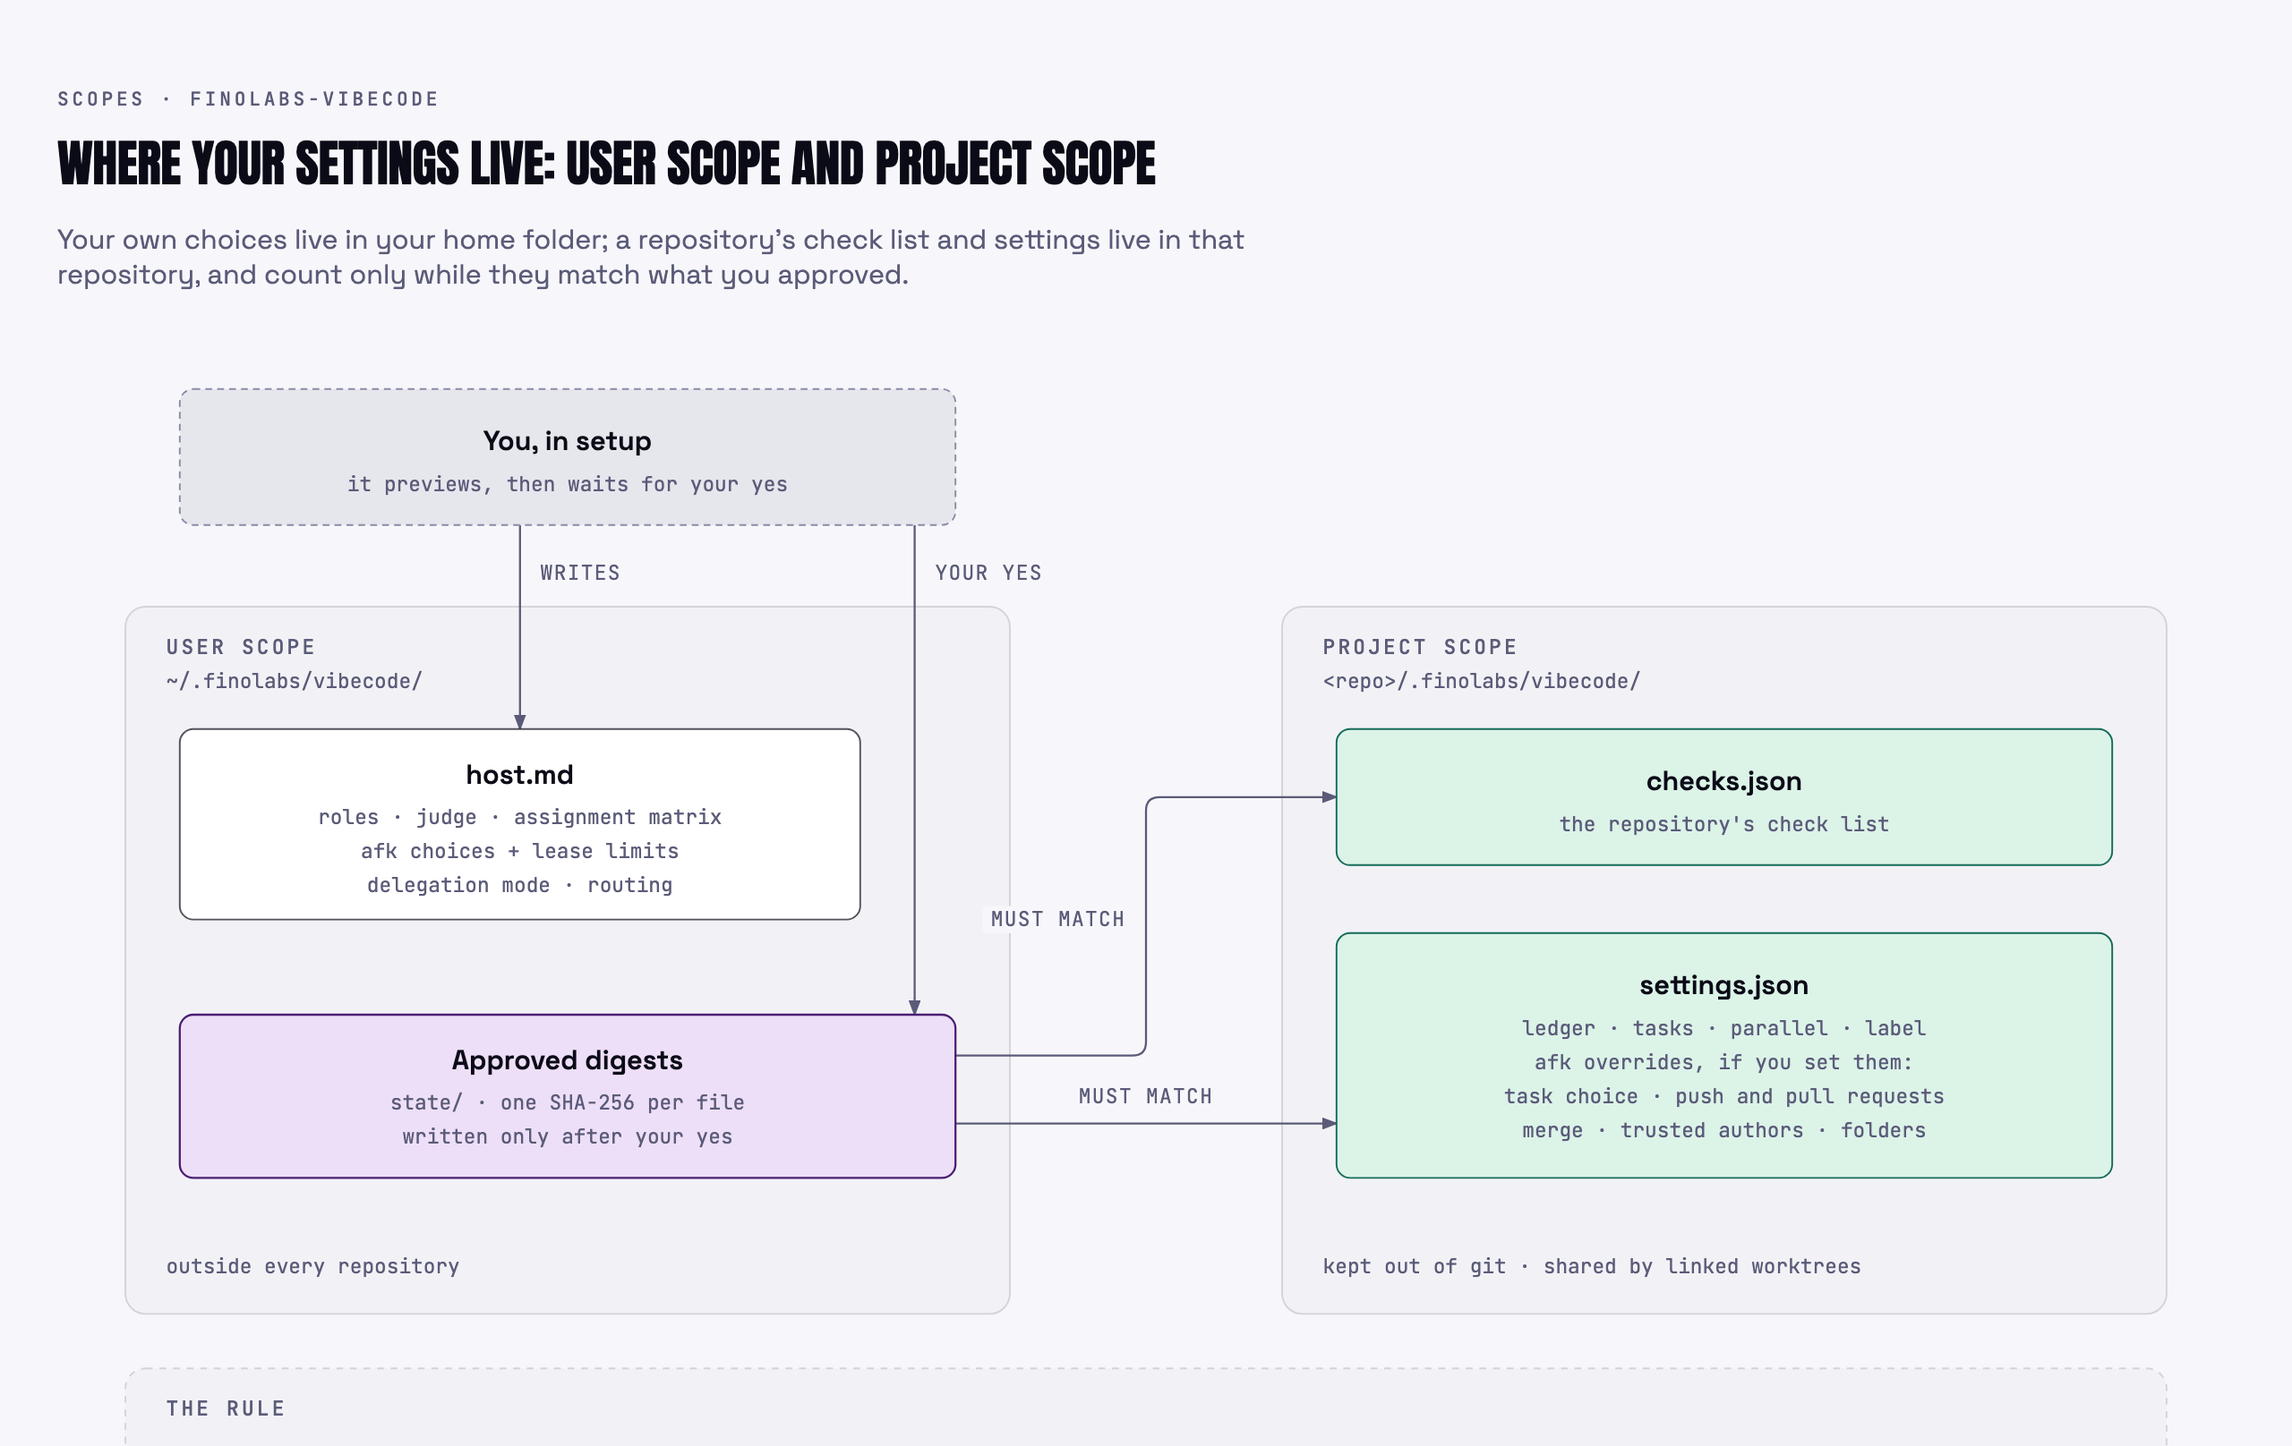
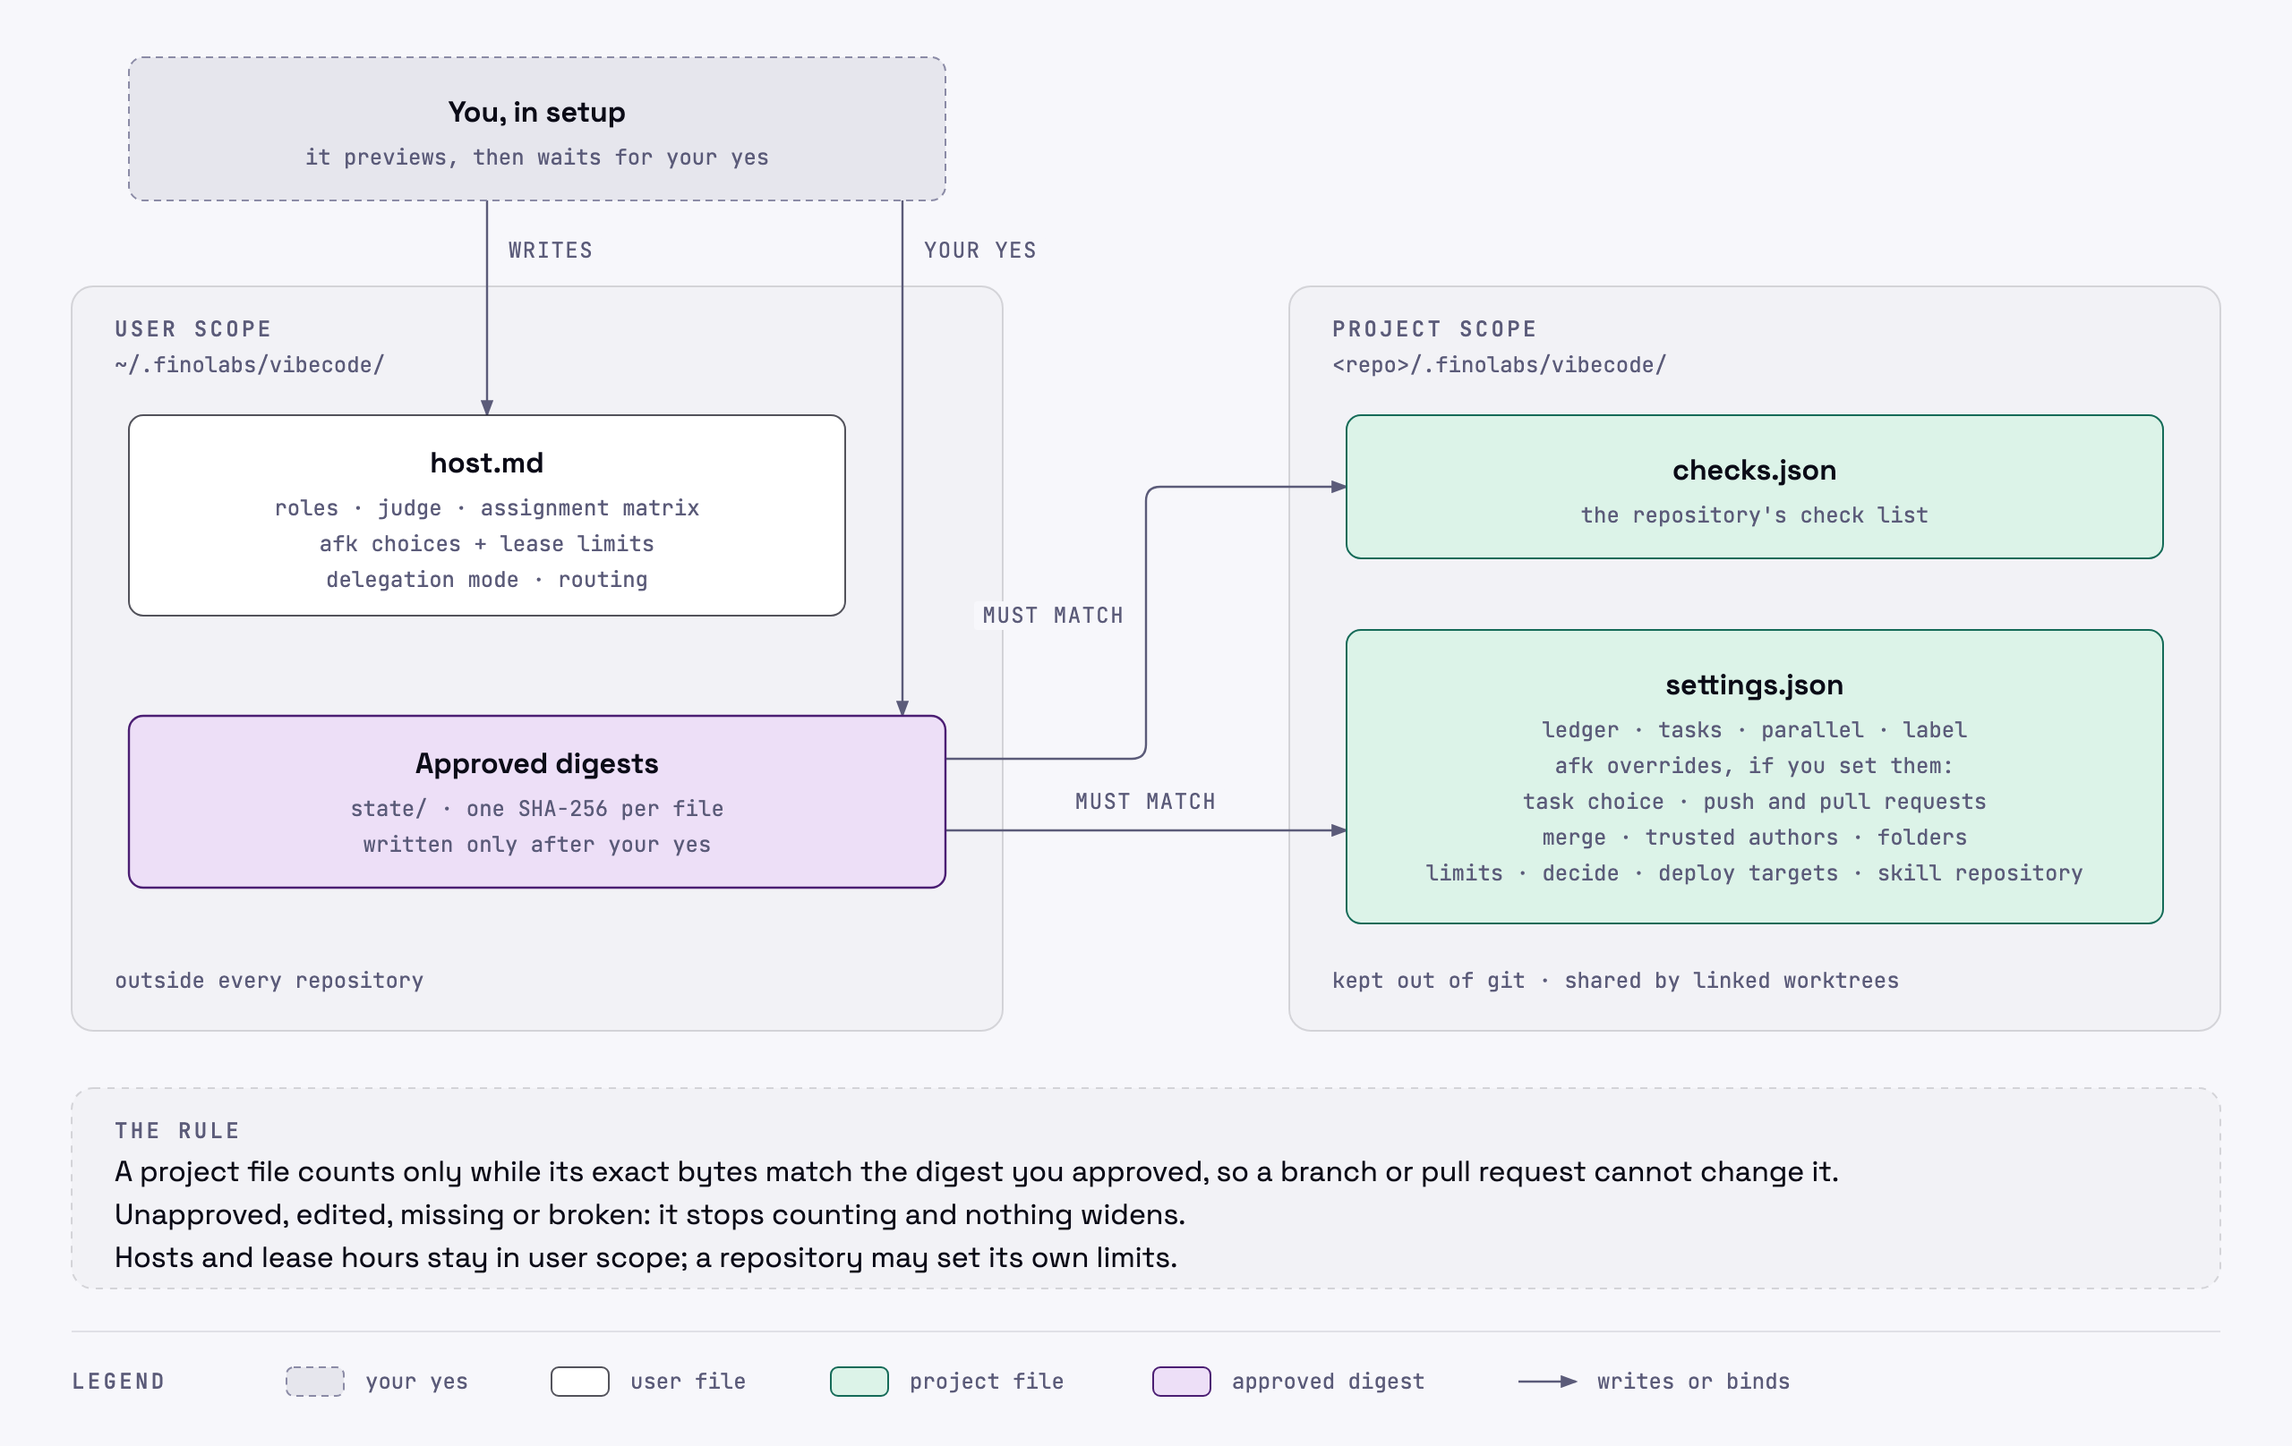
Show per-repository afk overrides in the settings-scopes diagram
settings.json lists limits, decide list, deploy targets and skill
repository; the rule says hosts and lease hours stay in user scope while a
repository may set its own limits. The PNGs are re-exported from the SVG
at 2x, like the afk mechanism diagram, and the README drops the
"predates 0.2.6" note.

diff --git a/docs/diagrams/settings-scopes-dark.html b/docs/diagrams/settings-scopes-dark.html
@@ -17,7 +17,7 @@ svg{width:100%;min-width:900px;display:block}
 <p class="sub">Your own choices live in your home folder; a repository&#x27;s check list and settings live in that repository, and count only while they match what you approved.</p>
 <svg viewBox="0 0 1280 808" xmlns="http://www.w3.org/2000/svg" role="img" aria-labelledby="settings-scopes-dark-title settings-scopes-dark-desc">
 <title id="settings-scopes-dark-title">Where your settings live: user scope and project scope</title>
-<desc id="settings-scopes-dark-desc">Two scopes of settings: user scope in ~/.finolabs/vibecode/ holds host.md (roles, judge, assignment matrix, afk choices and lease limits, delegation mode) and the approved digests; project scope in the repository&#x27;s .finolabs/vibecode/ holds checks.json and settings.json (ledger, tasks, parallel limit, label and optional afk overrides). Setup writes host.md and, after your yes, the digest of each project file; a project file counts only while its bytes match that digest, so a branch or pull request cannot change it or widen what you approved.</desc>
+<desc id="settings-scopes-dark-desc">Two scopes of settings: user scope in ~/.finolabs/vibecode/ holds host.md (roles, judge, assignment matrix, afk choices and lease limits, delegation mode) and the approved digests; project scope in the repository&#x27;s .finolabs/vibecode/ holds checks.json and settings.json (ledger, tasks, parallel limit, label and optional afk overrides: task choice, push and pull requests, merge, trusted authors, folders, limits, decide list, deploy targets and skill repository). Setup writes host.md and, after your yes, the digest of each project file; a project file counts only while its bytes match that digest, so a branch or pull request cannot change it or widen what you approved.</desc>
 <defs><marker id="settings-scopes-dark-default" markerWidth="8" markerHeight="6" refX="7" refY="3" orient="auto"><polygon points="0 0, 8 3, 0 6" fill="#BCBCD0"/></marker><marker id="settings-scopes-dark-accent" markerWidth="8" markerHeight="6" refX="7" refY="3" orient="auto"><polygon points="0 0, 8 3, 0 6" fill="#E5D2F4"/></marker><marker id="settings-scopes-dark-link" markerWidth="8" markerHeight="6" refX="7" refY="3" orient="auto"><polygon points="0 0, 8 3, 0 6" fill="#87D3E1"/></marker></defs>
 <rect width="100%" height="100%" fill="#050510"/>
 <rect x="40" y="160" width="520" height="416" rx="12" fill="rgba(255,255,255,0.02)" stroke="rgba(255,255,255,0.14)" stroke-width="1"/>
@@ -66,16 +66,18 @@ svg{width:100%;min-width:900px;display:block}
 <text x="980" y="292" fill="#BCBCD0" font-size="12" font-family="'JetBrains Mono', ui-monospace, monospace" text-anchor="middle">the repository&#x27;s check list</text>
 </g>
 <g class="node">
-<rect x="752" y="352" width="456" height="144" rx="8" fill="#050510"/>
-<rect x="752" y="352" width="456" height="144" rx="8" fill="rgba(127,226,206,0.14)" stroke="#BFF0E3" stroke-width="1"/>
+<rect x="752" y="352" width="456" height="164" rx="8" fill="#050510"/>
+<rect x="752" y="352" width="456" height="164" rx="8" fill="rgba(127,226,206,0.14)" stroke="#BFF0E3" stroke-width="1"/>
 <text x="980" y="388" fill="#FFFFFF" font-size="16" font-weight="600" font-family="'Space Grotesk', system-ui, sans-serif" text-anchor="middle">settings.json</text>
 <text x="980" y="412" fill="#BCBCD0" font-size="12" font-family="'JetBrains Mono', ui-monospace, monospace" text-anchor="middle">ledger · tasks · parallel · label</text>
 <text x="980" y="432" fill="#BCBCD0" font-size="12" font-family="'JetBrains Mono', ui-monospace, monospace" text-anchor="middle">afk overrides, if you set them:</text>
 <text x="980" y="452" fill="#BCBCD0" font-size="12" font-family="'JetBrains Mono', ui-monospace, monospace" text-anchor="middle">task choice · push and pull requests</text>
 <text x="980" y="472" fill="#BCBCD0" font-size="12" font-family="'JetBrains Mono', ui-monospace, monospace" text-anchor="middle">merge · trusted authors · folders</text>
+<text x="980" y="492" fill="#BCBCD0" font-size="12" font-family="'JetBrains Mono', ui-monospace, monospace" text-anchor="middle">limits · decide · deploy targets · skill repository</text>
 </g>
-<text x="64" y="668" fill="#FFFFFF" font-size="16" font-weight="400" font-family="'Space Grotesk', system-ui, sans-serif" text-anchor="start">A project file counts only while its exact bytes match the digest you approved, so a branch or pull request cannot change it.</text>
-<text x="64" y="696" fill="#FFFFFF" font-size="16" font-weight="400" font-family="'Space Grotesk', system-ui, sans-serif" text-anchor="start">Unapproved, edited, missing or broken: it stops counting and nothing widens. Lease limits and hosts stay in user scope.</text>
+<text x="64" y="660" fill="#FFFFFF" font-size="16" font-weight="400" font-family="'Space Grotesk', system-ui, sans-serif" text-anchor="start">A project file counts only while its exact bytes match the digest you approved, so a branch or pull request cannot change it.</text>
+<text x="64" y="684" fill="#FFFFFF" font-size="16" font-weight="400" font-family="'Space Grotesk', system-ui, sans-serif" text-anchor="start">Unapproved, edited, missing or broken: it stops counting and nothing widens.</text>
+<text x="64" y="708" fill="#FFFFFF" font-size="16" font-weight="400" font-family="'Space Grotesk', system-ui, sans-serif" text-anchor="start">Hosts and lease hours stay in user scope; a repository may set its own limits.</text>
 <line x1="40" y1="744" x2="1240" y2="744" stroke="rgba(255,255,255,0.12)" stroke-width="0.8"/>
 <text x="40" y="776" fill="#BCBCD0" font-size="12" font-weight="500" font-family="'JetBrains Mono', ui-monospace, monospace" letter-spacing="0.14em" text-anchor="start">LEGEND</text>
 <rect x="160" y="764" width="32" height="16" rx="4" fill="rgba(188,188,208,0.10)" stroke="#8B8BA6" stroke-width="1" stroke-dasharray="4,3"/>

diff --git a/docs/diagrams/settings-scopes-light.html b/docs/diagrams/settings-scopes-light.html
@@ -17,7 +17,7 @@ svg{width:100%;min-width:900px;display:block}
 <p class="sub">Your own choices live in your home folder; a repository&#x27;s check list and settings live in that repository, and count only while they match what you approved.</p>
 <svg viewBox="0 0 1280 808" xmlns="http://www.w3.org/2000/svg" role="img" aria-labelledby="settings-scopes-light-title settings-scopes-light-desc">
 <title id="settings-scopes-light-title">Where your settings live: user scope and project scope</title>
-<desc id="settings-scopes-light-desc">Two scopes of settings: user scope in ~/.finolabs/vibecode/ holds host.md (roles, judge, assignment matrix, afk choices and lease limits, delegation mode) and the approved digests; project scope in the repository&#x27;s .finolabs/vibecode/ holds checks.json and settings.json (ledger, tasks, parallel limit, label and optional afk overrides). Setup writes host.md and, after your yes, the digest of each project file; a project file counts only while its bytes match that digest, so a branch or pull request cannot change it or widen what you approved.</desc>
+<desc id="settings-scopes-light-desc">Two scopes of settings: user scope in ~/.finolabs/vibecode/ holds host.md (roles, judge, assignment matrix, afk choices and lease limits, delegation mode) and the approved digests; project scope in the repository&#x27;s .finolabs/vibecode/ holds checks.json and settings.json (ledger, tasks, parallel limit, label and optional afk overrides: task choice, push and pull requests, merge, trusted authors, folders, limits, decide list, deploy targets and skill repository). Setup writes host.md and, after your yes, the digest of each project file; a project file counts only while its bytes match that digest, so a branch or pull request cannot change it or widen what you approved.</desc>
 <defs><marker id="settings-scopes-light-default" markerWidth="8" markerHeight="6" refX="7" refY="3" orient="auto"><polygon points="0 0, 8 3, 0 6" fill="#5B5B79"/></marker><marker id="settings-scopes-light-accent" markerWidth="8" markerHeight="6" refX="7" refY="3" orient="auto"><polygon points="0 0, 8 3, 0 6" fill="#4B1E73"/></marker><marker id="settings-scopes-light-link" markerWidth="8" markerHeight="6" refX="7" refY="3" orient="auto"><polygon points="0 0, 8 3, 0 6" fill="#14627A"/></marker></defs>
 <rect width="100%" height="100%" fill="#F7F7FB"/>
 <rect x="40" y="160" width="520" height="416" rx="12" fill="rgba(11,11,23,0.02)" stroke="rgba(11,11,23,0.14)" stroke-width="1"/>
@@ -66,16 +66,18 @@ svg{width:100%;min-width:900px;display:block}
 <text x="980" y="292" fill="#5B5B79" font-size="12" font-family="'JetBrains Mono', ui-monospace, monospace" text-anchor="middle">the repository&#x27;s check list</text>
 </g>
 <g class="node">
-<rect x="752" y="352" width="456" height="144" rx="8" fill="#F7F7FB"/>
-<rect x="752" y="352" width="456" height="144" rx="8" fill="#DCF3E8" stroke="#156B58" stroke-width="1"/>
+<rect x="752" y="352" width="456" height="164" rx="8" fill="#F7F7FB"/>
+<rect x="752" y="352" width="456" height="164" rx="8" fill="#DCF3E8" stroke="#156B58" stroke-width="1"/>
 <text x="980" y="388" fill="#0B0B17" font-size="16" font-weight="600" font-family="'Space Grotesk', system-ui, sans-serif" text-anchor="middle">settings.json</text>
 <text x="980" y="412" fill="#5B5B79" font-size="12" font-family="'JetBrains Mono', ui-monospace, monospace" text-anchor="middle">ledger · tasks · parallel · label</text>
 <text x="980" y="432" fill="#5B5B79" font-size="12" font-family="'JetBrains Mono', ui-monospace, monospace" text-anchor="middle">afk overrides, if you set them:</text>
 <text x="980" y="452" fill="#5B5B79" font-size="12" font-family="'JetBrains Mono', ui-monospace, monospace" text-anchor="middle">task choice · push and pull requests</text>
 <text x="980" y="472" fill="#5B5B79" font-size="12" font-family="'JetBrains Mono', ui-monospace, monospace" text-anchor="middle">merge · trusted authors · folders</text>
+<text x="980" y="492" fill="#5B5B79" font-size="12" font-family="'JetBrains Mono', ui-monospace, monospace" text-anchor="middle">limits · decide · deploy targets · skill repository</text>
 </g>
-<text x="64" y="668" fill="#0B0B17" font-size="16" font-weight="400" font-family="'Space Grotesk', system-ui, sans-serif" text-anchor="start">A project file counts only while its exact bytes match the digest you approved, so a branch or pull request cannot change it.</text>
-<text x="64" y="696" fill="#0B0B17" font-size="16" font-weight="400" font-family="'Space Grotesk', system-ui, sans-serif" text-anchor="start">Unapproved, edited, missing or broken: it stops counting and nothing widens. Lease limits and hosts stay in user scope.</text>
+<text x="64" y="660" fill="#0B0B17" font-size="16" font-weight="400" font-family="'Space Grotesk', system-ui, sans-serif" text-anchor="start">A project file counts only while its exact bytes match the digest you approved, so a branch or pull request cannot change it.</text>
+<text x="64" y="684" fill="#0B0B17" font-size="16" font-weight="400" font-family="'Space Grotesk', system-ui, sans-serif" text-anchor="start">Unapproved, edited, missing or broken: it stops counting and nothing widens.</text>
+<text x="64" y="708" fill="#0B0B17" font-size="16" font-weight="400" font-family="'Space Grotesk', system-ui, sans-serif" text-anchor="start">Hosts and lease hours stay in user scope; a repository may set its own limits.</text>
 <line x1="40" y1="744" x2="1240" y2="744" stroke="rgba(11,11,23,0.12)" stroke-width="0.8"/>
 <text x="40" y="776" fill="#5B5B79" font-size="12" font-weight="500" font-family="'JetBrains Mono', ui-monospace, monospace" letter-spacing="0.14em" text-anchor="start">LEGEND</text>
 <rect x="160" y="764" width="32" height="16" rx="4" fill="rgba(91,91,121,0.10)" stroke="#8B8BA6" stroke-width="1" stroke-dasharray="4,3"/>

diff --git a/README.md b/README.md
@@ -356,11 +356,9 @@ Optional quota probing is configured in `/setup add quota`, off by default and i
 <p align="center">
   <picture>
     <source media="(prefers-color-scheme: dark)" srcset="assets/settings-scopes-dark.png">
-    <img src="assets/settings-scopes-light.png" alt="Two scopes of settings: user scope in ~/.finolabs/vibecode/ holds host.md (roles, judge, assignment matrix, afk choices and lease limits, delegation mode) and the approved digests; project scope in the repository's .finolabs/vibecode/ holds checks.json and settings.json (ledger, tasks, parallel limit, label and optional afk choices). A project file counts only while its bytes match the digest you approved, so a branch or pull request cannot change it." width="920">
+    <img src="assets/settings-scopes-light.png" alt="Two scopes of settings: user scope in ~/.finolabs/vibecode/ holds host.md (roles, judge, assignment matrix, afk choices and lease limits, delegation mode) and the approved digests; project scope in the repository's .finolabs/vibecode/ holds checks.json and settings.json (ledger, tasks, parallel limit, label and optional afk choices: task choice, push and pull requests, merge, trusted authors, folders, limits, decide list, deploy targets and skill repository). A project file counts only while its bytes match the digest you approved, so a branch or pull request cannot change it. Hosts and lease hours stay in user scope; a repository may set its own limits." width="920">
   </picture>
 </p>
-
-_This diagram predates 0.2.6: roles and the judge now live only in the assignment matrix._
 
 Project progress uses per-repository ledger and task-file settings confirmed in `/setup add project`, while `/setup instructions` writes the project work convention and dated Outcome anchors. These settings, the parallel limit and the dashboard label live in each repository's own settings file, `.finolabs/vibecode/settings.json` in the main checkout (kept out of git through `.git/info/exclude`, and read only while it matches the digest approved in the data root). Since 0.2.5 the `## Project settings` and `## Project labels` sections and the global `Ledger project:` and `Task file:` lines of `host.md` are no longer read: set them again per repository, then delete them by hand.
 
